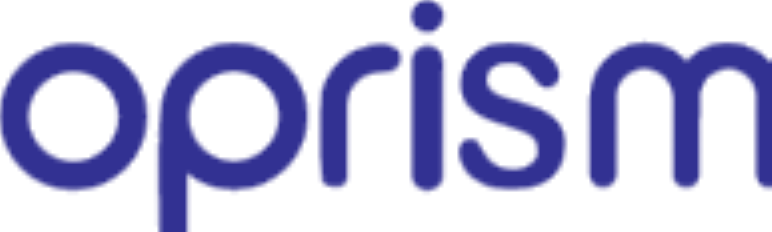
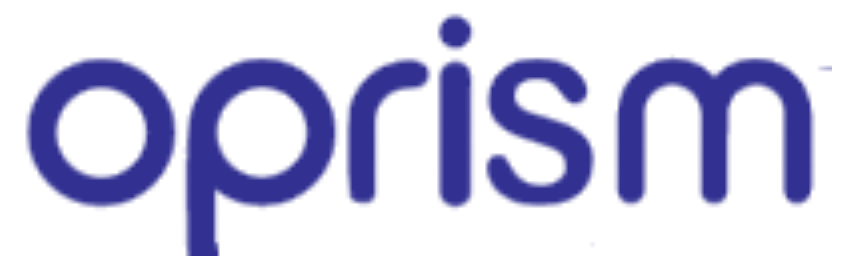
fix(loader): include full letter M with generous horizontal padding and overflow visible

diff --git a/src/components/ui/oprism-wordmark.tsx b/src/components/ui/oprism-wordmark.tsx
@@ -11,7 +11,8 @@ export interface OprismWordmarkProps {
  *
  * Exact brand wordmark extracted directly from the uploaded reference Oprism logo:
  * - Traced as high-precision scalable vector paths (SVG) matching exact letterforms:
- *   'o', 'p' (with descender), 'r', 'i' (with dot), 's', 'm'
+ *   'o', 'p' (with descender), 'r', 'i' (with dot), 's', 'm' (full 3-stem letterform)
+ * - Complete unclipped letter M with full rounded terminals and generous horizontal padding
  * - Trademark symbol (™) is completely removed per strict user instruction.
  * - Fill variant: #323192 (authentic brand color from reference logo)
  * - Track variant: rgba(50, 49, 146, 0.20) for background fill animation track
@@ -27,21 +28,21 @@ export function OprismWordmark({
 
   return (
     <div
-      className={`inline-flex items-center justify-center select-none ${className}`}
+      className={`inline-flex items-center justify-center select-none overflow-visible px-2 sm:px-4 ${className}`}
       style={style}
       aria-label="OPRISM"
     >
       <svg
-        viewBox="0 0 772 232"
+        viewBox="0 0 848 264"
         fill="none"
         xmlns="http://www.w3.org/2000/svg"
-        className="w-48 sm:w-64 md:w-80 lg:w-96 xl:w-[420px] h-auto transition-colors duration-200"
+        className="w-56 sm:w-72 md:w-88 lg:w-[420px] xl:w-[460px] h-auto overflow-visible transition-colors duration-200"
         style={{
-          filter: isFill ? 'drop-shadow(0 2px 8px rgba(50, 49, 146, 0.20))' : undefined,
+          filter: isFill ? 'drop-shadow(0 2px 10px rgba(50, 49, 146, 0.22))' : undefined,
         }}
       >
         <path
-          d="M 424.260 2.010 C 418.930 2.792, 415.508 5.955, 413.522 11.934 C 412.123 16.144, 412.128 17.020, 413.573 21.261 C 417.078 31.546, 430.705 34.136, 438.501 25.999 C 440.723 23.680, 441.431 21.852, 441.791 17.506 C 442.190 12.698, 441.895 11.456, 439.552 8.075 C 437.144 4.600, 434.826 3.075, 430 1.787 C 429.175 1.567, 426.592 1.667, 424.260 2.010 M 65 44.652 C 60.254 45.372, 48.604 48.230, 47.054 49.053 C 46.199 49.508, 42.720 51.233, 39.322 52.888 C 31.897 56.504, 30.456 57.604, 22.037 66.088 C 13.105 75.088, 12.477 75.951, 8.057 85.300 C 2.528 96.992, 1.767 100.757, 1.752 116.500 C 1.737 132.555, 2.434 135.829, 8.678 149 C 12.611 157.296, 14.344 159.640, 22.356 167.500 C 34.008 178.929, 43.315 184.002, 58.256 187.065 C 69.093 189.286, 77.416 189.299, 90 187.112 C 100.882 185.222, 116.754 176.282, 126.067 166.797 C 129.058 163.751, 135 156.305, 135 155.603 C 135 155.320, 136.264 152.931, 137.809 150.294 C 139.354 147.657, 141.716 142.125, 143.059 138 C 145.186 131.463, 145.494 128.702, 145.457 116.500 C 145.420 104.640, 145.053 101.365, 143.057 95.079 C 136.060 73.040, 117.835 54.795, 95.546 47.517 C 86.747 44.644, 73.338 43.386, 65 44.652 M 216.784 45.977 C 200.533 50.110, 187.088 58.752, 177.078 71.500 C 171.061 79.163, 167.805 84.946, 165.179 92.634 C 160.620 105.978, 158.601 142.178, 159.538 193.750 L 160.234 232 173.072 232 L 185.911 232 186.205 204.048 C 186.391 186.461, 186.885 175.713, 187.538 175.060 C 188.254 174.345, 189.648 174.646, 192.038 176.032 C 204.522 183.275, 211.582 185.871, 223.404 187.566 C 232.979 188.939, 236.271 189.050, 240.230 188.136 C 242.938 187.511, 246.529 187, 248.210 187 C 252.852 187, 258.715 185.034, 267 180.701 C 281.551 173.090, 291.169 163.638, 298.308 149.935 C 304.591 137.873, 305.509 133.363, 305.419 115 C 305.343 99.567, 305.168 98.091, 302.716 92.180 C 297.649 79.966, 292.839 72.701, 284.270 64.313 C 270.640 50.971, 256.647 45.211, 236 44.443 C 226.817 44.101, 222.946 44.410, 216.784 45.977 M 493.500 45.415 C 481.484 47.931, 470.103 56.613, 465.202 67 C 462.892 71.895, 462.601 73.764, 462.553 84 C 462.503 94.910, 462.646 95.744, 465.350 100.258 C 470.688 109.171, 484.963 118.729, 498.468 122.431 C 513.425 126.531, 528.941 133.043, 533.123 136.974 C 538.446 141.978, 539.896 153.497, 535.916 159.164 C 532.786 163.621, 531.430 164.685, 525.221 167.558 C 518.268 170.775, 509.091 170.870, 500.705 167.812 C 493.315 165.118, 486.081 158.289, 480.631 148.864 C 475.622 140.201, 470.981 138.001, 465.414 141.648 C 459.218 145.708, 458.405 153.618, 463.152 163.665 C 467.611 173.103, 472.408 177.576, 484.917 183.957 C 490.927 187.024, 508.835 188.518, 523.043 187.139 C 532.889 186.184, 535.524 185.524, 541.779 182.445 C 554.754 176.059, 561.018 167.001, 563.038 151.708 C 564.205 142.871, 563.558 135.120, 561.127 128.802 C 559.022 123.331, 550.019 115.164, 540.888 110.442 C 537.605 108.744, 508.479 99.006, 506.637 98.990 C 504.347 98.971, 494.420 93.798, 491.661 91.187 C 485.624 85.474, 484.532 79.663, 488.107 72.278 C 489.712 68.963, 491.441 67.280, 495.357 65.219 C 499.826 62.868, 501.614 62.523, 509 62.586 C 519.874 62.678, 524.308 65.071, 532.940 75.507 C 541.712 86.111, 541.566 86.001, 546.821 85.995 C 550.654 85.992, 552.088 85.440, 554.750 82.945 C 557.525 80.344, 558 79.211, 558 75.191 C 558 62.864, 544.266 49.746, 527.289 45.857 C 520.151 44.222, 500.430 43.964, 493.500 45.415 M 630 45.930 C 612.613 51.454, 600.205 63.173, 593.926 80 C 591.504 86.488, 591.499 86.583, 591.212 132.812 L 590.924 179.124 594.362 182.562 C 597.356 185.556, 598.441 186, 602.765 186 C 608.334 186, 612.396 183.562, 614.231 179.119 C 614.933 177.417, 615.383 162.144, 615.514 135.495 C 615.767 84.170, 616.024 82.906, 628.070 73.855 C 643.583 62.199, 664.056 68.988, 671.828 88.364 C 673.255 91.921, 673.558 98.631, 673.994 136.295 L 674.500 180.090 677.886 183.045 C 680.660 185.467, 682.167 186, 686.236 186 C 690.505 186, 691.653 185.545, 694.439 182.750 L 697.678 179.500 698.319 136.127 C 698.671 112.272, 699.360 92.247, 699.849 91.627 C 700.339 91.007, 701.312 88.700, 702.011 86.500 C 705.019 77.039, 712.730 71.101, 725.029 68.775 C 733.760 67.124, 740.748 69.588, 748.057 76.897 C 751.521 80.361, 754.317 84.211, 755.086 86.575 C 756.001 89.386, 756.530 102.843, 756.950 134 C 757.352 163.802, 757.905 178.334, 758.705 180.149 C 760.348 183.873, 763.808 186, 768.223 186 L 772 186 772 124 C 772 64.914, 771.915 62, 770.196 62 C 769.204 62, 766.842 60.388, 764.946 58.418 C 756.567 49.710, 741.866 44, 727.824 44 C 714.951 44, 700.429 49.133, 692.694 56.416 C 687.870 60.959, 685.143 60.965, 680.306 56.440 C 668.871 45.744, 645.773 40.918, 630 45.930 M 373.389 46.126 C 365.076 47.323, 355.376 50.980, 348.617 55.466 C 336.815 63.300, 325.312 79.477, 322.994 91.500 C 321.271 100.435, 320.613 145.153, 321.934 163.500 C 323.401 183.876, 323.897 184.818, 333.636 185.701 C 339.002 186.187, 339.863 185.986, 342.722 183.581 L 345.880 180.924 346.232 139.712 C 346.555 101.969, 346.744 98.121, 348.482 94 C 354.846 78.900, 363.614 73.225, 384 71.011 C 391.932 70.149, 392.717 69.852, 395.750 66.558 C 398.524 63.546, 399 62.288, 399 57.967 C 399 51.773, 396.281 48.755, 388.665 46.493 C 383.157 44.857, 382.342 44.838, 373.389 46.126 M 421.966 47.820 C 418.233 49.475, 415.732 52.085, 414.459 55.653 C 413.359 58.741, 413.079 71.095, 413.044 118.230 C 412.994 184.434, 412.833 182.852, 420.043 186.904 C 425.821 190.151, 431.276 189.933, 435.819 186.271 C 437.844 184.640, 440.056 182.224, 440.735 180.902 C 441.675 179.075, 441.974 164.133, 441.984 118.500 C 441.998 51.610, 442.240 54.038, 435.102 49.270 C 431.728 47.016, 425.365 46.314, 421.966 47.820 M 228.500 71.123 C 207.358 74.473, 191.541 90.023, 189.255 109.706 C 187.524 124.608, 191.526 137.389, 201.088 147.499 C 207.079 153.834, 212.603 157.179, 221.726 159.997 C 237.884 164.988, 256.199 159.471, 268.354 145.951 C 270.764 143.271, 273.500 139.373, 274.435 137.289 C 275.370 135.205, 276.667 132.418, 277.318 131.095 C 278.043 129.620, 278.490 123.816, 278.474 116.095 C 278.453 106.056, 278.099 102.891, 276.730 100.500 C 275.785 98.850, 275.010 96.955, 275.006 96.289 C 274.991 93.390, 263.147 80.646, 256.904 76.812 C 250.293 72.752, 236.127 69.915, 228.500 71.123 M 60.037 73.192 C 43.768 78.239, 32.003 91.779, 28.704 109.249 C 26.070 123.196, 30.480 137.091, 41 147.992 C 50.372 157.704, 60.260 161.951, 73.500 161.951 C 98.582 161.951, 119 141.790, 119 117.024 C 119 104.684, 114.993 94.543, 106.663 85.805 C 99.953 78.765, 95.287 75.862, 86.345 73.161 C 77.487 70.486, 68.728 70.496, 60.037 73.192"
+          d="M 452.260 18.010 C 446.930 18.792, 443.508 21.955, 441.522 27.934 C 440.123 32.144, 440.128 33.020, 441.573 37.261 C 445.078 47.546, 458.705 50.136, 466.501 41.999 C 468.723 39.680, 469.431 37.852, 469.791 33.506 C 470.190 28.698, 469.895 27.456, 467.552 24.075 C 465.144 20.600, 462.826 19.075, 458 17.787 C 457.175 17.567, 454.592 17.667, 452.260 18.010 M 93 60.652 C 88.254 61.372, 76.604 64.230, 75.054 65.053 C 74.199 65.508, 70.720 67.233, 67.322 68.888 C 59.897 72.504, 58.456 73.604, 50.037 82.088 C 41.105 91.088, 40.477 91.951, 36.057 101.300 C 30.528 112.992, 29.767 116.757, 29.752 132.500 C 29.737 148.555, 30.434 151.829, 36.678 165 C 40.611 173.296, 42.344 175.640, 50.356 183.500 C 62.008 194.929, 71.315 200.002, 86.256 203.065 C 97.093 205.286, 105.416 205.299, 118 203.112 C 128.882 201.222, 144.754 192.282, 154.067 182.797 C 157.058 179.751, 163 172.305, 163 171.603 C 163 171.320, 164.264 168.931, 165.809 166.294 C 167.354 163.657, 169.716 158.125, 171.059 154 C 173.186 147.463, 173.494 144.702, 173.457 132.500 C 173.420 120.640, 173.053 117.365, 171.057 111.079 C 164.060 89.040, 145.835 70.795, 123.546 63.517 C 114.747 60.644, 101.338 59.386, 93 60.652 M 244.784 61.977 C 228.533 66.110, 215.088 74.752, 205.078 87.500 C 192.428 103.611, 190.177 112.056, 187.888 152 C 186.914 168.998, 187.485 242.990, 188.658 251.750 L 189.227 256 203.751 256 L 218.275 256 217.622 250.441 C 217.263 247.383, 216.278 243.827, 215.433 242.538 C 214.137 240.561, 213.945 236.441, 214.199 216.146 C 214.385 201.266, 214.896 191.701, 215.538 191.060 C 216.254 190.345, 217.649 190.646, 220.038 192.032 C 232.522 199.275, 239.582 201.871, 251.404 203.566 C 260.979 204.939, 264.271 205.050, 268.230 204.136 C 270.938 203.511, 274.529 203, 276.210 203 C 280.852 203, 286.715 201.034, 295 196.701 C 309.551 189.090, 319.169 179.638, 326.308 165.935 C 332.591 153.873, 333.509 149.363, 333.419 131 C 333.343 115.567, 333.168 114.091, 330.716 108.180 C 325.649 95.966, 320.839 88.701, 312.270 80.313 C 298.640 66.971, 284.647 61.211, 264 60.443 C 254.817 60.101, 250.946 60.410, 244.784 61.977 M 521.500 61.415 C 509.484 63.931, 498.103 72.613, 493.202 83 C 490.892 87.895, 490.601 89.764, 490.553 100 C 490.503 110.910, 490.646 111.744, 493.350 116.258 C 498.688 125.171, 512.963 134.729, 526.468 138.431 C 541.425 142.531, 556.941 149.043, 561.123 152.974 C 566.446 157.978, 567.896 169.497, 563.916 175.164 C 560.786 179.621, 559.430 180.685, 553.221 183.558 C 546.268 186.775, 537.091 186.870, 528.705 183.812 C 521.315 181.118, 514.081 174.289, 508.631 164.864 C 503.622 156.201, 498.981 154.001, 493.414 157.648 C 487.218 161.708, 486.405 169.618, 491.152 179.665 C 495.611 189.103, 500.408 193.576, 512.917 199.957 C 518.927 203.024, 536.835 204.518, 551.043 203.139 C 560.889 202.184, 563.524 201.524, 569.779 198.445 C 582.754 192.059, 589.018 183.001, 591.038 167.708 C 592.205 158.871, 591.558 151.120, 589.127 144.802 C 587.022 139.331, 578.019 131.164, 568.888 126.442 C 565.605 124.744, 536.479 115.006, 534.637 114.990 C 532.347 114.971, 522.420 109.798, 519.661 107.187 C 513.624 101.474, 512.532 95.663, 516.107 88.278 C 517.712 84.963, 519.441 83.280, 523.357 81.219 C 527.826 78.868, 529.614 78.523, 537 78.586 C 547.874 78.678, 552.308 81.071, 560.940 91.507 C 569.712 102.111, 569.566 102.001, 574.821 101.995 C 578.654 101.992, 580.088 101.440, 582.750 98.945 C 585.525 96.344, 586 95.211, 586 91.191 C 586 78.864, 572.266 65.746, 555.289 61.857 C 548.151 60.222, 528.430 59.964, 521.500 61.415 M 658 61.930 C 640.613 67.454, 628.205 79.173, 621.926 96 C 619.504 102.488, 619.499 102.583, 619.212 148.812 L 618.924 195.124 622.362 198.562 C 625.356 201.556, 626.441 202, 630.765 202 C 636.334 202, 640.396 199.562, 642.231 195.119 C 642.933 193.417, 643.383 178.144, 643.514 151.495 C 643.767 100.170, 644.024 98.906, 656.070 89.855 C 671.583 78.199, 692.056 84.988, 699.828 104.364 C 701.255 107.921, 701.558 114.631, 701.994 152.295 L 702.500 196.090 705.886 199.045 C 708.660 201.467, 710.167 202, 714.236 202 C 718.505 202, 719.653 201.545, 722.439 198.750 L 725.678 195.500 726.319 152.127 C 726.671 128.272, 727.360 108.247, 727.849 107.627 C 728.339 107.007, 729.312 104.700, 730.011 102.500 C 733.019 93.039, 740.730 87.101, 753.029 84.775 C 761.760 83.124, 768.748 85.588, 776.057 92.897 C 779.521 96.361, 782.317 100.211, 783.086 102.575 C 784.001 105.386, 784.530 118.843, 784.950 150 C 785.352 179.802, 785.905 194.334, 786.705 196.149 C 788.471 200.153, 791.829 202, 797.340 202 C 801.670 202, 802.672 201.564, 806.014 198.221 C 809.374 194.861, 809.872 193.707, 810.503 187.820 C 810.893 184.178, 811.032 163.716, 810.813 142.349 C 810.427 104.804, 810.339 103.342, 808.207 98.805 C 806.993 96.223, 806 93.516, 806 92.790 C 806 89.954, 801.533 83.211, 795.657 77.179 C 784.389 65.611, 771.378 60, 755.824 60 C 742.951 60, 728.429 65.133, 720.694 72.416 C 715.870 76.959, 713.143 76.965, 708.306 72.440 C 696.871 61.744, 673.773 56.918, 658 61.930 M 401.389 62.126 C 393.076 63.323, 383.376 66.980, 376.617 71.466 C 364.815 79.300, 353.312 95.477, 350.994 107.500 C 349.271 116.435, 348.613 161.153, 349.934 179.500 C 351.401 199.876, 351.897 200.818, 361.636 201.701 C 367.002 202.187, 367.863 201.986, 370.722 199.581 L 373.880 196.924 374.232 155.712 C 374.555 117.969, 374.744 114.121, 376.482 110 C 382.846 94.900, 391.614 89.225, 412 87.011 C 419.932 86.149, 420.717 85.852, 423.750 82.558 C 426.524 79.546, 427 78.288, 427 73.967 C 427 67.773, 424.281 64.755, 416.665 62.493 C 411.157 60.857, 410.342 60.838, 401.389 62.126 M 449.966 63.820 C 446.233 65.475, 443.732 68.085, 442.459 71.653 C 441.359 74.741, 441.079 87.095, 441.044 134.230 C 440.994 200.434, 440.833 198.852, 448.043 202.904 C 453.821 206.151, 459.276 205.933, 463.819 202.271 C 465.844 200.640, 468.056 198.224, 468.735 196.902 C 469.675 195.075, 469.974 180.133, 469.984 134.500 C 469.998 67.610, 470.240 70.038, 463.102 65.270 C 459.728 63.016, 453.365 62.314, 449.966 63.820 M 256.500 87.123 C 235.358 90.473, 219.541 106.023, 217.255 125.706 C 215.524 140.608, 219.526 153.389, 229.088 163.499 C 235.079 169.834, 240.603 173.179, 249.726 175.997 C 265.884 180.988, 284.199 175.471, 296.354 161.951 C 298.764 159.271, 301.500 155.373, 302.435 153.289 C 303.370 151.205, 304.667 148.418, 305.318 147.095 C 306.043 145.620, 306.490 139.816, 306.474 132.095 C 306.453 122.056, 306.099 118.891, 304.730 116.500 C 303.785 114.850, 303.010 112.955, 303.006 112.289 C 302.991 109.390, 291.147 96.646, 284.904 92.812 C 278.293 88.752, 264.127 85.915, 256.500 87.123 M 88.037 89.192 C 71.768 94.239, 60.003 107.779, 56.704 125.249 C 54.070 139.196, 58.480 153.091, 69 163.992 C 78.372 173.704, 88.260 177.951, 101.500 177.951 C 126.582 177.951, 147 157.790, 147 133.024 C 147 120.684, 142.993 110.543, 134.663 101.805 C 127.953 94.765, 123.287 91.862, 114.345 89.161 C 105.487 86.486, 96.728 86.496, 88.037 89.192"
           fill={color}
           fillRule="evenodd"
           stroke="none"

diff --git a/src/components/LoaderOverlay.tsx b/src/components/LoaderOverlay.tsx
@@ -16,6 +16,7 @@ export interface LoaderOverlayProps {
  * - Background: Exact gradient-21st.png asset with background-size: cover & center positioning.
  * - Prism: Faceted crystalline triangle centered directly above the text.
  * - Typography: Exact brand wordmark (OPRISM) extracted from reference logo.
+ *   - Complete unclipped letter M with generous horizontal padding.
  * - Animation: Faithful 21st.dev motion-loading-fill-text animation.
  * - Trademark: Completely removed.
  * - Transition: Smooth fade-out reveal seamlessly transitioning into the homepage.
@@ -37,7 +38,7 @@ export function LoaderOverlay({ onComplete, text = "OPRISM" }: LoaderOverlayProp
           key="oprism-loader"
           initial={{ opacity: 1 }}
           exit={{ opacity: 0, transition: { duration: 0.7, ease: [0.16, 1, 0.3, 1] } }}
-          className="fixed inset-0 z-[9999] flex flex-col items-center justify-center px-6 select-none overflow-hidden"
+          className="fixed inset-0 z-[9999] flex flex-col items-center justify-center px-4 sm:px-6 select-none overflow-hidden"
           style={{
             backgroundImage: `url(${gradient21st})`,
             backgroundSize: "cover",
@@ -48,7 +49,7 @@ export function LoaderOverlay({ onComplete, text = "OPRISM" }: LoaderOverlayProp
           aria-label="Loading Oprism website"
         >
           {/* Main Logo Composition matching reference */}
-          <div className="relative z-10 flex flex-col items-center justify-center text-center max-w-xl mx-auto">
+          <div className="relative z-10 flex flex-col items-center justify-center text-center w-full max-w-2xl mx-auto overflow-visible">
             {/* 1. Faceted Crystal Prism Triangle directly from reference */}
             <motion.div
               initial={{ opacity: 0, scale: 0.95, y: -8 }}
@@ -65,7 +66,7 @@ export function LoaderOverlay({ onComplete, text = "OPRISM" }: LoaderOverlayProp
             </motion.div>
 
             {/* 2. 21st.dev motion-loading-fill-text wordmark animation */}
-            <div className="relative flex items-center justify-center">
+            <div className="relative flex items-center justify-center w-full overflow-visible">
               <MotionLoadingFillText
                 text={text}
                 onComplete={handleFillComplete}

diff --git a/src/index.css b/src/index.css
@@ -39,20 +39,24 @@
   justify-content: center;
   align-items: center;
   width: 100%;
+  overflow: visible;
 }
 
 .fill-text-stack {
   position: relative;
   display: inline-block;
   user-select: none;
+  overflow: visible;
 }
 
 .fill-text {
   line-height: 1;
+  overflow: visible;
 }
 
 .fill-text-bg {
   position: relative;
+  overflow: visible;
 }
 
 .fill-text-fill {
@@ -63,6 +67,7 @@
   bottom: 0;
   will-change: clip-path;
   z-index: 1;
+  overflow: visible;
 }
 
 /* Smooth reveal transition for the website */
